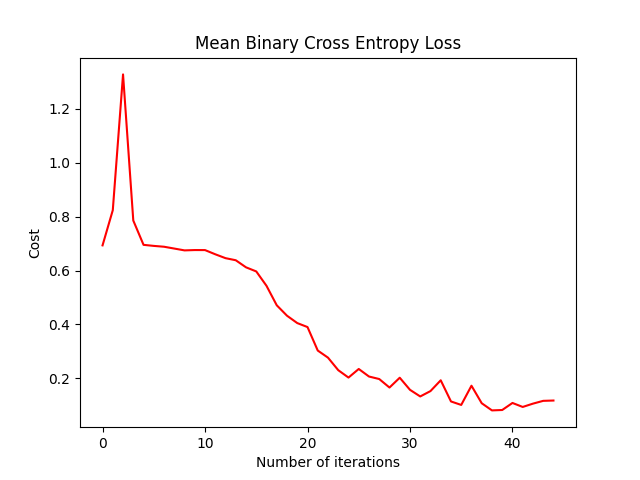
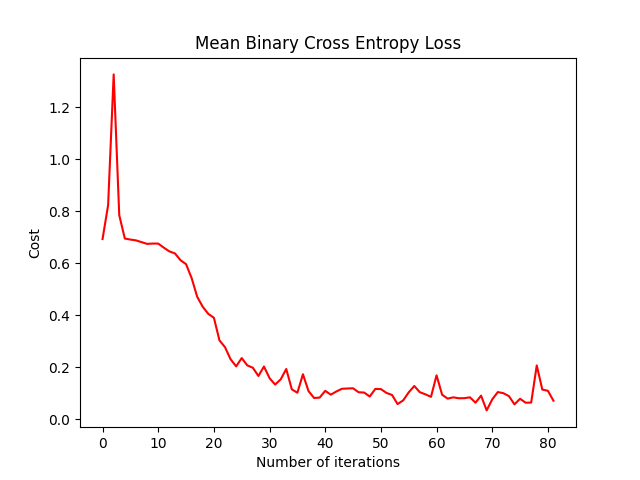
MLP interface changes

diff --git a/run_sgd.py b/run_sgd.py
@@ -23,18 +23,17 @@ classifier = StochasticNetwork(input_size=INPUT_SIZE, hidden_size=HIDDEN_SIZE, o
                                eta=LEARNING_RATE, patience=PATIENCE, tolerance=TOLERANCE,
                                activation_func=sigmoid, activation_func_prime=sigmoid_prime, cost_func=binary_x_entropy,
                                cost_func_prime=binary_x_entropy_prime, b=128)
-epochs, last_error, train_cost_history = classifier.train(data.x_train, data.y_train)
+epochs, val_loss, train_cost_history = classifier.train(data.x_train, data.y_train, data.x_valid, data.y_valid)
 
 # Training results
-labels = classifier.predict(data.x_train)
-print("Train error: ", last_error)
-print("Training accuracy: ", round(get_accuracy(labels, data.y_train), 3))
+train_labels, _ = classifier.predict(data.x_train)
+print("Mean validation loss: ", val_loss)
+print("Training accuracy: ", round(get_accuracy(train_labels, data.y_train), 3))
 
 # Testing results
-test_error = classifier.test(data.x_test, data.y_test)
+test_labels, test_error = classifier.predict(data.x_test, data.y_test)
 print("Test error: ", test_error)
-labels = classifier.predict(data.x_test)
-print("Testing accuracy: ", round(get_accuracy(labels, data.y_test), 3))
+print("Testing accuracy: ", round(get_accuracy(test_labels, data.y_test), 3))
 
 # Train error plot
 print("Creating train loss plot...")
@@ -62,10 +61,9 @@ for i in range(b_search_count):
                                    activation_func=sigmoid, activation_func_prime=sigmoid_prime,
                                    cost_func=binary_x_entropy,
                                    cost_func_prime=binary_x_entropy_prime, b=b)
-    epochs, _, _ = classifier.train(data.x_train, data.y_train)
+    epochs, _, _ = classifier.train(data.x_train, data.y_train, data.x_valid, data.y_valid)
     epochs_needed[i] = epochs
-    val_loss[i] = classifier.test(data.x_valid, data.y_valid)
-    labels = classifier.predict(data.x_valid)
+    labels, val_loss[i] = classifier.predict(data.x_valid, data.y_valid)
     accuracy = get_accuracy(labels, data.y_valid)
     print(f"B: {b} | Loss: {val_loss[i]} | Accuracy: {accuracy} | Epochs: {epochs}")
 
@@ -83,11 +81,10 @@ classifier = StochasticNetwork(input_size=INPUT_SIZE, hidden_size=HIDDEN_SIZE, o
                                activation_func_prime=sigmoid_prime, cost_func=binary_x_entropy,
                                cost_func_prime=binary_x_entropy_prime, b=best_b)
 
-classifier.train(data.x_train, data.y_train)
-optimal_test_error = classifier.test(data.x_test, data.y_test)
-labels = classifier.predict(data.x_test)
-print("Test loss for optimal hyper-parameters: ", optimal_test_error)
-print("Test accuracy for optimal hyper-parameters: ", round(get_accuracy(labels, data.y_test), 3))
+classifier.train(data.x_train, data.y_train, data.x_valid, data.y_valid)
+optimal_test_labels, optimal_test_loss = classifier.predict(data.x_test, data.y_test)
+print("Test loss for optimal hyper-parameters: ", optimal_test_loss)
+print("Test accuracy for optimal hyper-parameters: ", round(get_accuracy(optimal_test_labels, data.y_test), 3))
 
 # Parameter search for optimal eta and m values
 eta_search_count = 10
@@ -108,9 +105,9 @@ for i in range(m_search_count):
                                        patience=PATIENCE, tolerance=TOLERANCE, activation_func=sigmoid,
                                        activation_func_prime=sigmoid_prime, cost_func=binary_x_entropy,
                                        cost_func_prime=binary_x_entropy_prime, b=256)
-        epochs, _, _ = classifier.train(data.x_train, data.y_train)
+        epochs, _, _ = classifier.train(data.x_train, data.y_train, data.x_valid, data.y_valid)
         epochs_needed[i][j] = epochs
-        val_loss[i][j] = classifier.test(data.x_valid, data.y_valid)
+        val_loss[i][j] = classifier.predict(data.x_valid, data.y_valid)[1]
 
 best_index = np.unravel_index(np.nanargmin(val_loss), val_loss.shape)
 best_m = m_values[best_index[0]]
@@ -126,12 +123,10 @@ classifier = StochasticNetwork(input_size=INPUT_SIZE, hidden_size=best_m, output
                                patience=PATIENCE, tolerance=TOLERANCE, activation_func=sigmoid,
                                activation_func_prime=sigmoid_prime, cost_func=binary_x_entropy,
                                cost_func_prime=binary_x_entropy_prime, b=best_b)
-classifier.train(data.x_train, data.y_train)
-optimal_test_error = classifier.test(data.x_test, data.y_test)
-labels = classifier.predict(data.x_test)
-print("Test loss for optimal hyper-parameters: ", optimal_test_error)
-print("Test accuracy for optimal hyper-parameters: ", round(get_accuracy(labels, data.y_test), 3))
+classifier.train(data.x_train, data.y_train, data.x_valid, data.y_valid)
+optimal_test_labels, optimal_test_loss = classifier.predict(data.x_test, data.y_test)
+print("Test loss for optimal hyper-parameters: ", optimal_test_loss)
+print("Test accuracy for optimal hyper-parameters: ", round(get_accuracy(optimal_test_labels, data.y_test), 3))
 
 end_time = time.process_time()
 print(f"Tasks finished after {end_time - start_time} seconds")
-

diff --git a/sgd.py b/sgd.py
@@ -8,14 +8,17 @@ class StochasticNetwork(mlp.ShallowNetwork):
         super(StochasticNetwork, self).__init__(**kwargs)
         self.batch_size = b
 
-    def _gradient_descent(self, train_data: np.ndarray, train_labels: np.ndarray) \
-            -> tuple[dict[str, np.ndarray], int, float, list[float]]:
+    def _gradient_descent(self, train_data: np.ndarray, train_labels: np.ndarray, val_data: np.ndarray,
+                          val_labels: np.ndarray) -> tuple[dict[str, np.ndarray], int, float, list[float]]:
         """
-        Implements the stochastic gradient descent procedure, calculating the gradient and loss.
+        Implements the entire gradient descent procedure, calculating the gradient and loss.
         :param train_data: a numpy array containing the train data
         :param train_labels: a numpy array containing the respective labels for the training data
-        :return: a dictionary containing the gradient, the number of epochs used, the minimum error found,
-        and the error history
+        :param val_data: a numpy array containing the validation data used for the early stopping algorithm
+        :param val_labels: a numpy array containing the labels for the validation data used for the early stopping
+        algorithm
+        :return: a dictionary containing the gradient, the number of epochs used, the minimum error found, and the error
+        history
         """
         # avoid altering original data and labels
         train_data_copy = train_data.copy()
@@ -24,7 +27,7 @@ class StochasticNetwork(mlp.ShallowNetwork):
         epoch: int = 0
         least_error: float = np.inf
         epochs_since_improvement: int = 0
-        best_model_params = None
+        best_model_params = {}
         error_history = []
 
         h_w = self.h_w.copy()
@@ -41,6 +44,7 @@ class StochasticNetwork(mlp.ShallowNetwork):
 
             parameters = {"h_w": h_w, "o_w": o_w, "h_b": h_b, "o_b": o_b}
             dw1, dw2, db1, db2, cost = self._back_propagation(batch_data, batch_labels, parameters)
+            error_history.append(cost)
 
             h_w -= self.eta * reg * dw1
             o_w -= self.eta * reg * dw2
@@ -48,18 +52,17 @@ class StochasticNetwork(mlp.ShallowNetwork):
             o_b -= self.eta * reg * db2
 
             # early stopping
-            error = cost.mean()
-            if error + self.tolerance < least_error:
-                #print(f"Iteration {epoch} improvement from {least_error} to {error}")
-                least_error = error
+            val_loss: float = self._forward_pass(parameters, val_data, val_labels)[4]
+            if val_loss + self.tolerance < least_error:
+                # print(f"Iteration {epoch} improvement from {least_error} to {error}")
+                least_error = val_loss
                 epochs_since_improvement = 0
-                best_model_params = parameters
+                best_model_params: dict[str, np.ndarray] = parameters
             else:
                 epochs_since_improvement += 1
-                #print(f"Iteration {epoch} NO improvement from {least_error} to {error}, "
-                      #f"increasing to {epochs_since_improvement}")
+                # print(f"Iteration {epoch} NO improvement from {least_error} to {error}, "
+                # f"increasing to {epochs_since_improvement}")
 
-            error_history.append(error)
             epoch += 1
 
         return best_model_params, epoch, least_error, error_history
